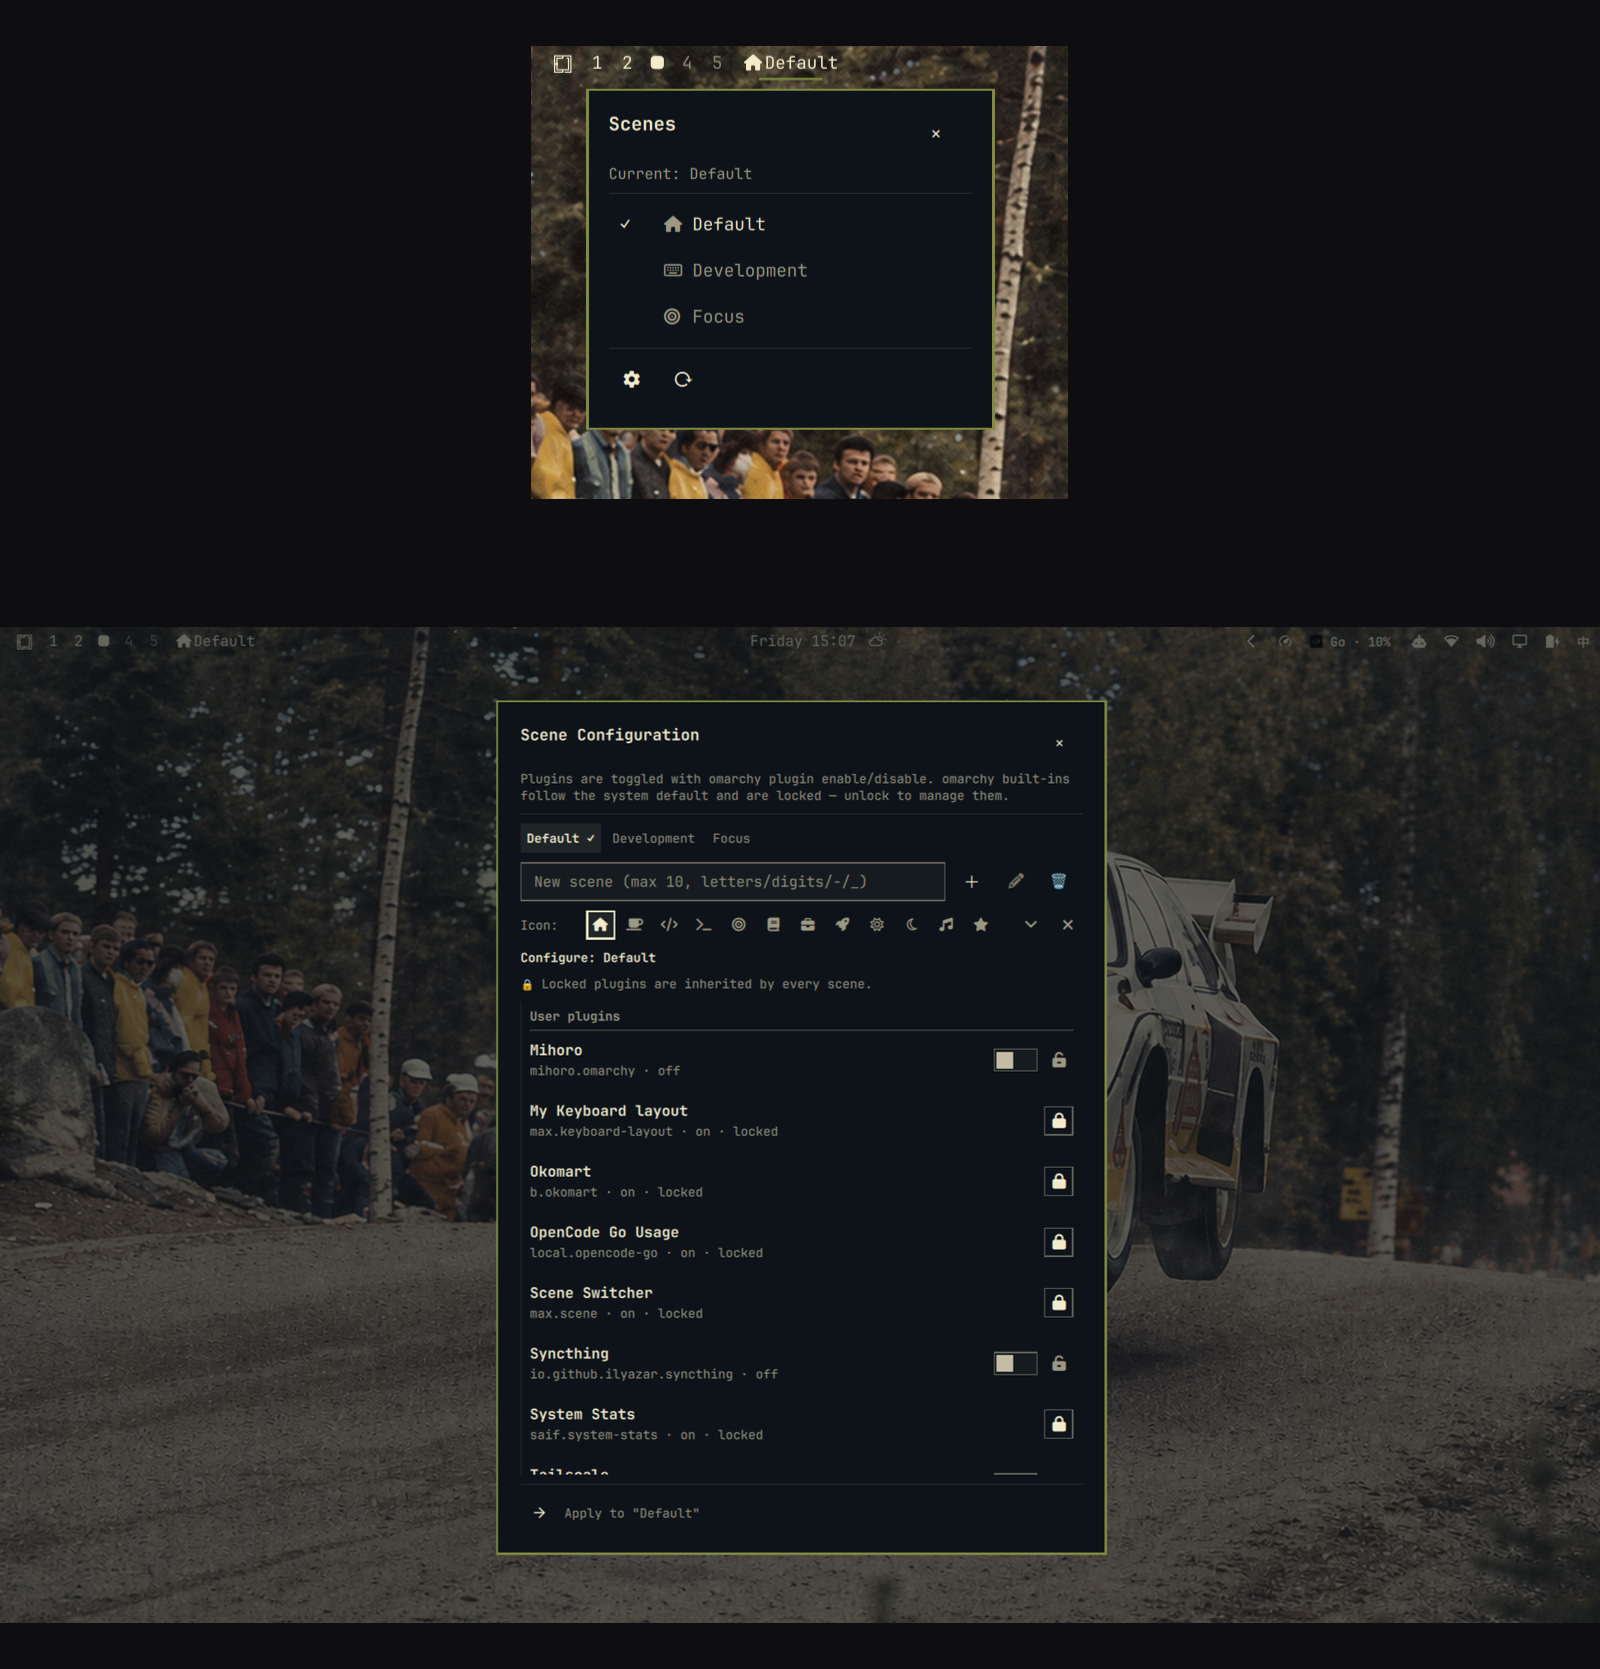
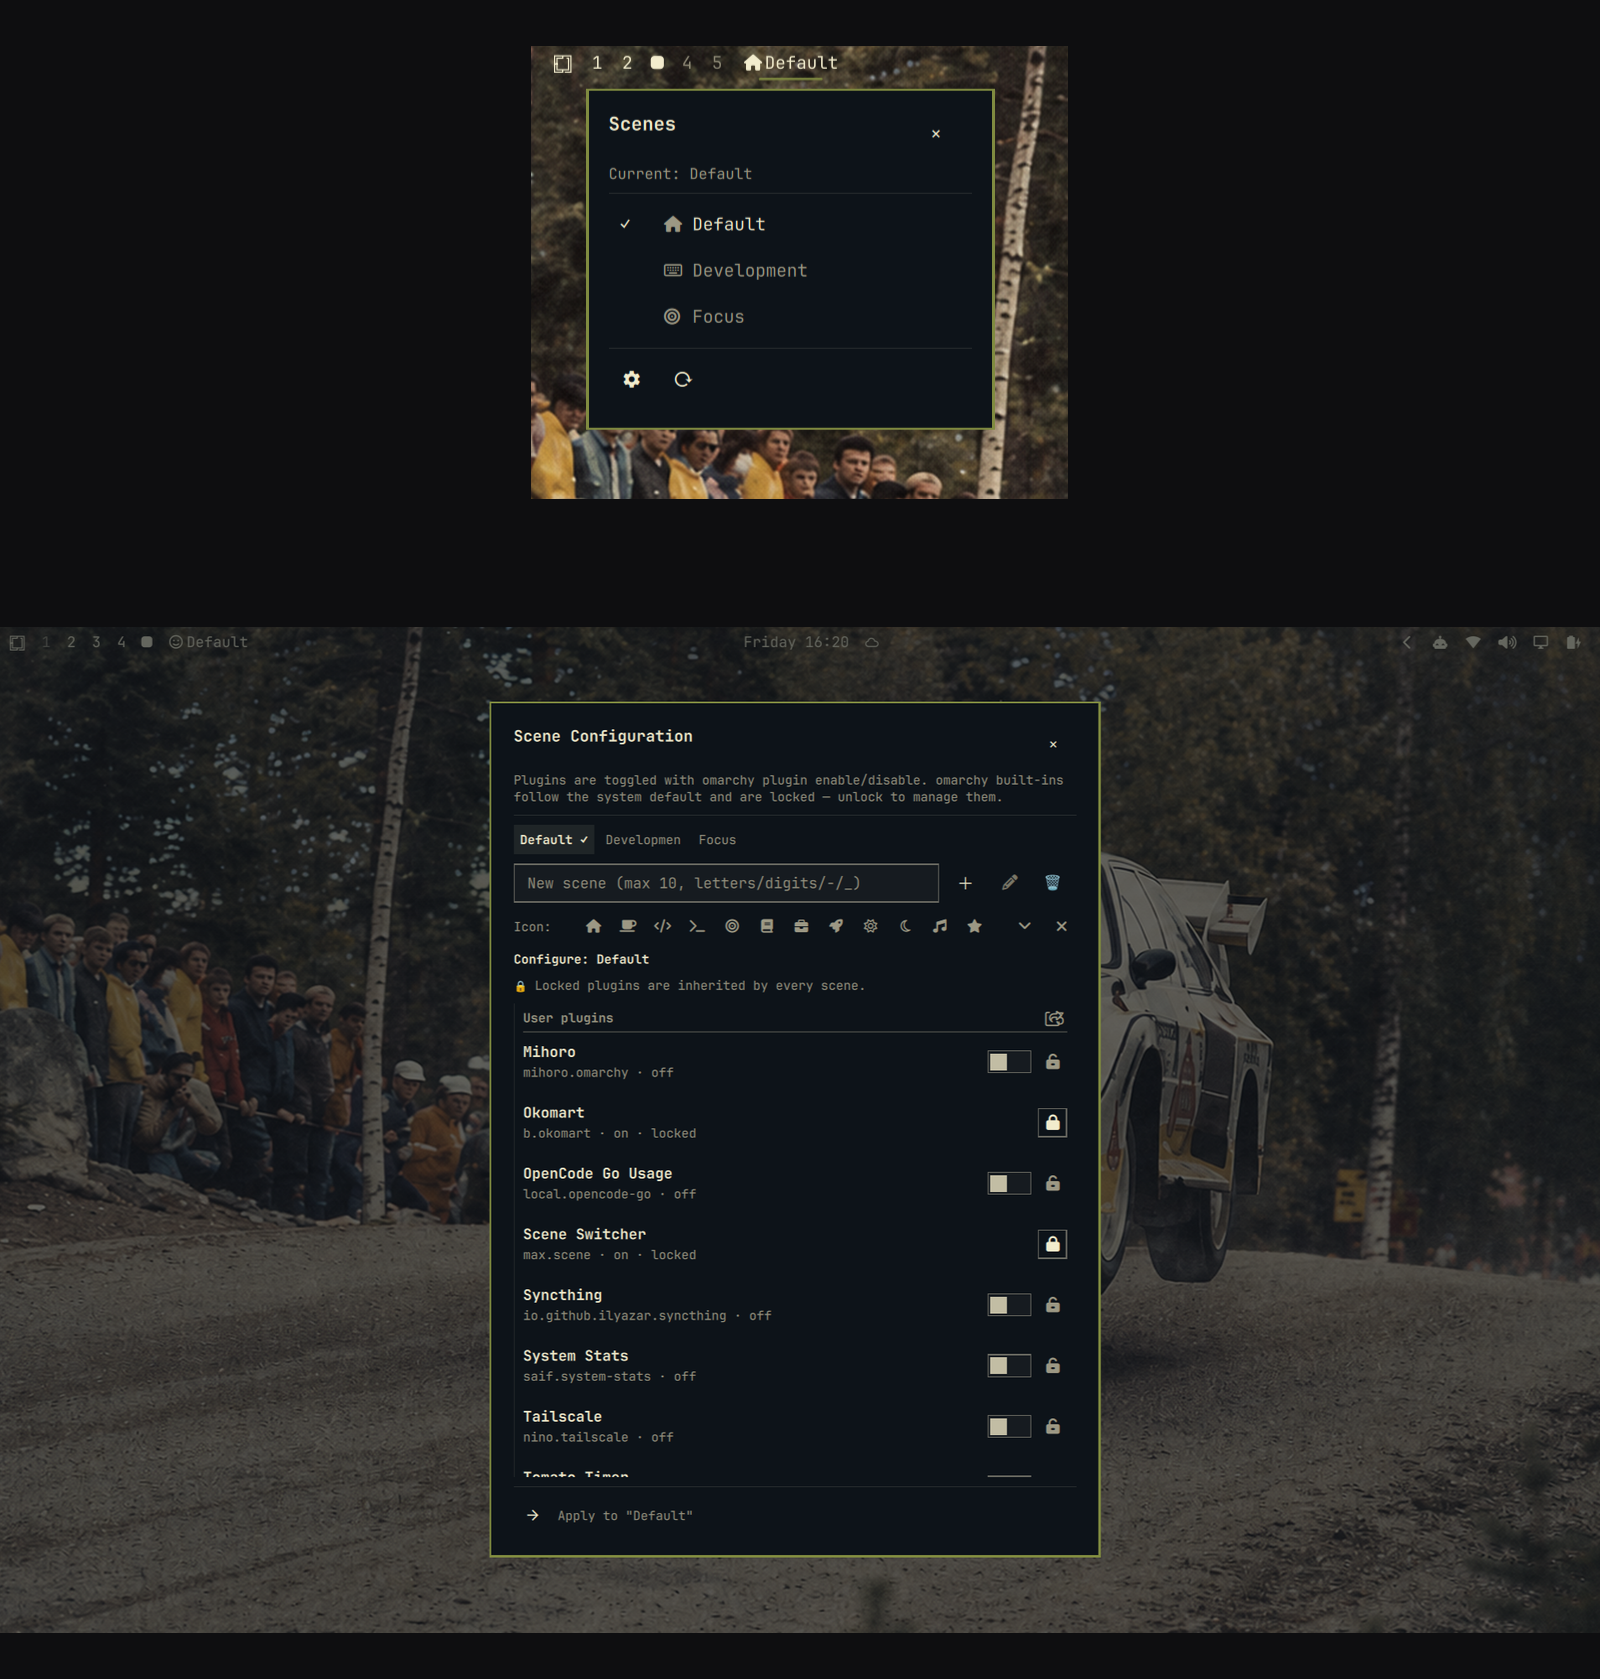
Update README features (refresh button, status echo) and replace the config panel screenshot with the latest UI

diff --git a/README.md b/README.md
@@ -20,9 +20,16 @@ cafe, Focus at a desk — with one click or keypress instead of editing
   atomically rewriting `~/.config/omarchy/shell.json` (positions/settings of
   enabled plugins are cached and restored on re-enable)
 - **Config panel** — lazy-loaded centered overlay (destroyed on close):
-  per-scene plugin toggles, lock/unlock buttons, preset icon picker, and a ⟳ refresh button at the top-right of the plugin list (next to "User plugins") that rescans plugins so newly installed ones appear immediately
   scene tabs, create/rename/delete (max 5 custom scenes, names ≤10 chars),
   per-scene plugin toggles, lock/unlock buttons, and a preset icon picker
+  (30 icons) for each scene
+- **Refresh plugins** — a ⟳ button at the top-right of the plugin list
+  (next to the "User plugins" header) rescans the plugin registry, so plugins
+  newly installed through `omarchy plugin add`/`clone` appear immediately
+- **Status echo** — each row shows the plugin's effective state: locked
+  plugins and omarchy built-ins follow the system default; plugins in a scene
+  show the scene switch state; unmanaged (new) plugins echo their system
+  default on/off
 - **Locked plugins** — locked plugins are inherited by every scene (always on);
   omarchy built-ins are listed after user plugins, locked by default and
   following the system state — unlock them to manage manually
